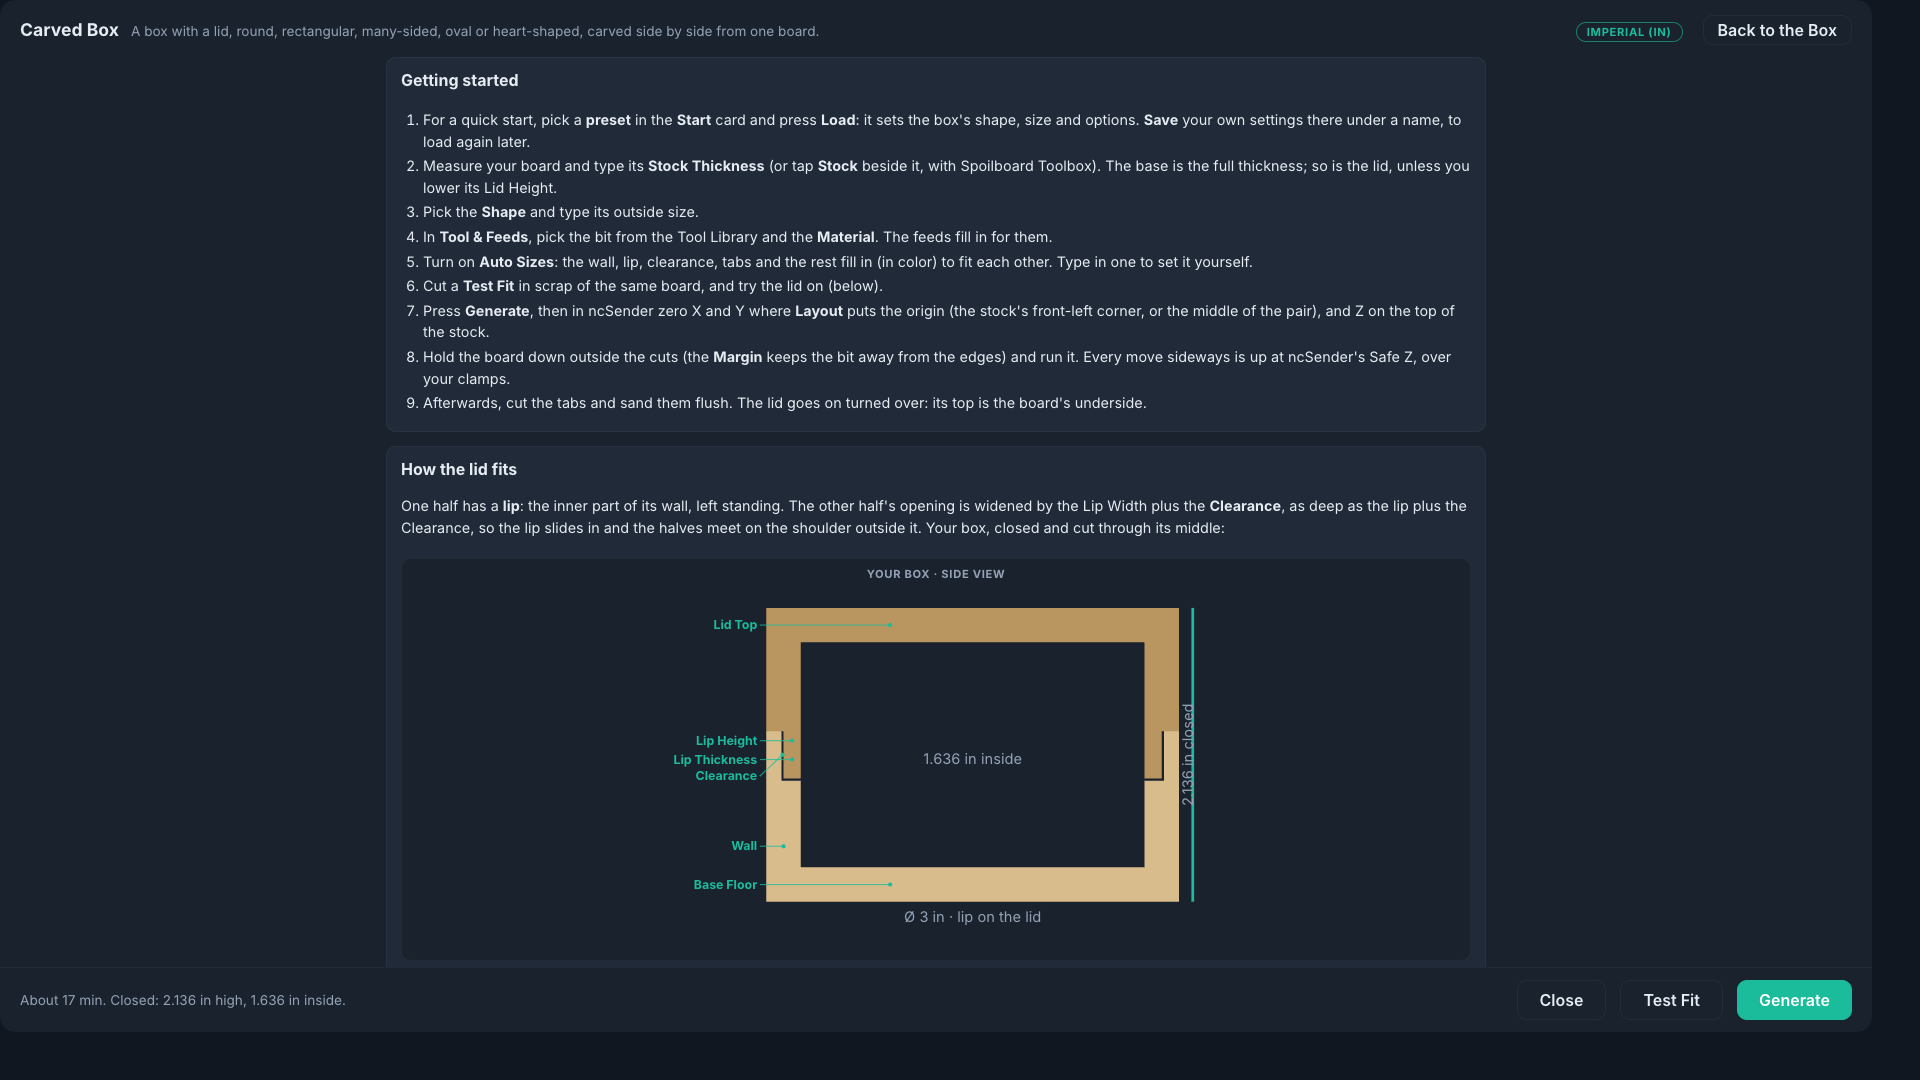
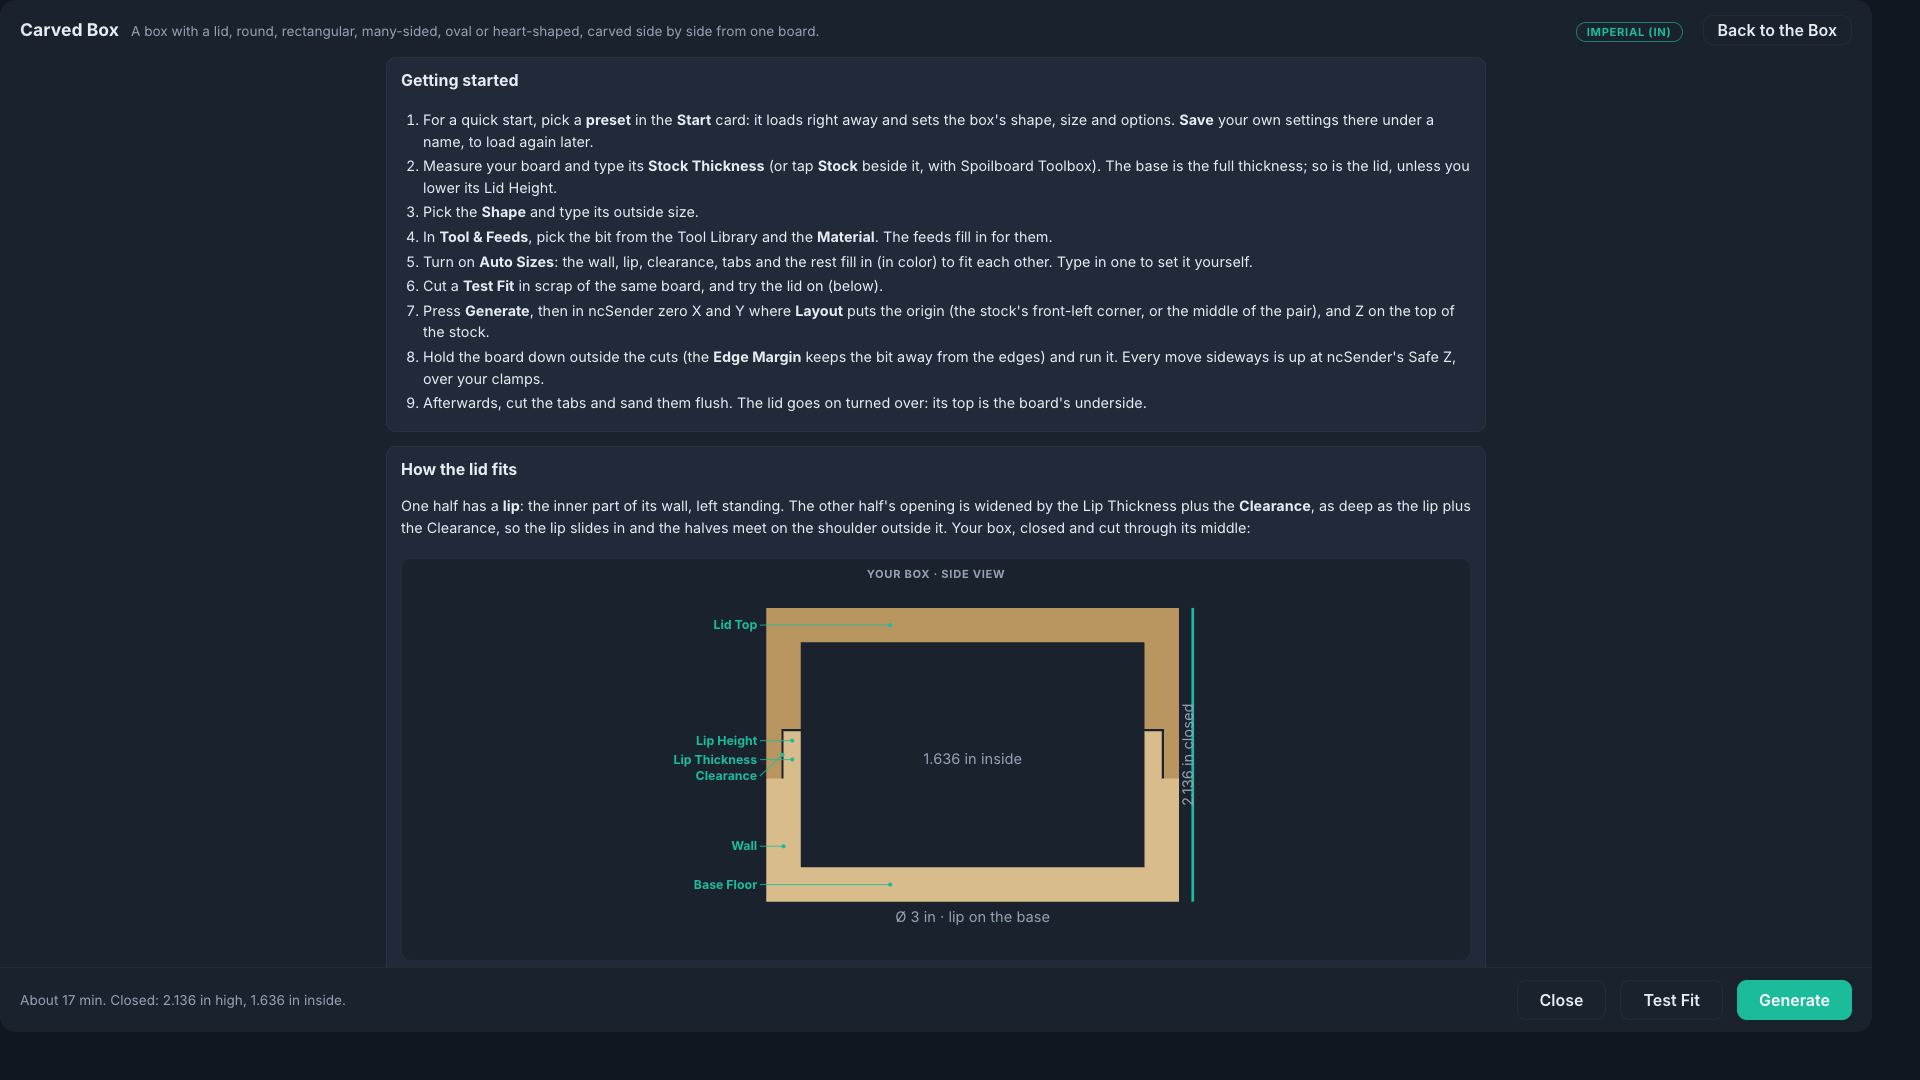
Carved Box 0.3.0
Nested sets, separate boards with grain matching, presets and saved
settings, a Magnet Bit, the finishing pass from the material, and an
easier layout. README screenshots retaken.

Claude-Session: https://claude.ai/code/session_01Hf6iZV4QfttXF3t1Lk5qyD

diff --git a/config.html b/config.html
@@ -3057,8 +3057,8 @@ if (typeof module !== 'undefined' && module.exports) {
     if (state.feedsAuto && v.charAt(0) === 'p') fillFeeds();
     update(true);
     // Back to the list's first line, so the same one can be picked again.
-    startSaid = v.charAt(0) === 'p' ? 'Loaded \u201c' + PRESETS[i].name + '\u201d: the box\u2019s shape, size and options, with Auto Sizes on; your stock, bit and feeds stay.'
-      : 'Loaded \u201c' + state.saved[i].name + '\u201d. Save with the same name to replace it.';
+    startSaid = v.charAt(0) === 'p' ? 'Loaded the preset ' + PRESETS[i].name + ': the box\u2019s shape, size and options, with Auto Sizes on; your stock, bit and feeds stay.'
+      : 'Loaded your settings ' + state.saved[i].name + '. Save with the same name to replace them.';
     $('cb-preset').value = '';
     startButtons();
   }

diff --git a/CHANGELOG.md b/CHANGELOG.md
@@ -1,21 +1,17 @@
 # Changelog
 
-## Unreleased
-- Easier to follow: Fit right after Box; the Box card in Outside size, then Board and walls; clearer names (Wall Thickness, Base Floor, Lid Top, Lip Thickness, Clearance Each Side, Gap Between, Edge Margin, Inside Rim, Tabs per Half, Magnets per Half...); shape icons on the shape buttons.
-- Labels on the previews: tap one to go to its field. A problem under the settings goes to its field when tapped. A tap in a field picks its text, to type over.
-- Each shape gets a usable size (round inches on an inch machine) when its saved one is too small or doesn't make the shape (a heart could show 0.003").
-- A nested set without Auto Sizes makes each box's floor, top and lip lower with it.
-- Picking a preset or your saved settings in Start loads them right away (no Load button); Escape or a tap outside the list leaves things as they are.
-- Magnet holes start at 5 mm across (were 1/4"), for common 5 mm magnets; the keepsake preset uses 5 mm.
-- Magnet Bit: with a tool changer, the magnet holes can be cut with a smaller end mill from the Tool Library, after a tool change once the outlines are cut, with starting feeds for its size.
-- Magnet holes narrower than the bit say to use a smaller bit, and Auto Sizes no longer makes the wall far too thick trying to fix them.
-- Auto Sizes with magnets: the lip down to 1/4" thick rather than the wall twice what the magnets need (a 6" x 4" box with 7 mm magnets: a 5/8" wall, was 0.72").
-- Finishing Pass: its allowance and direction come from the Material (conventional in wood, climb in plastics and aluminum); the card is just the switch.
-- Start: presets to begin from (ring, trinket, keepsake with magnets, hexagon, oval, heart, nested set), and your own settings saved under a name to load again.
-- Three columns on a wide screen (the previews, the cards used most, the rest), two on a tall one; the cards ordered from most used to least.
+## 0.3.0: Nested sets, grain matching, presets, Magnet Bit
+- Nested Set: 2 to 5 boxes, each fitting inside the one before, all in one program on one board, or one at a time from boards as thick as each needs.
 - Cut the base or the lid on its own board (Layout → Cut), the lid's from a thinner Lid Board if you like.
 - Grain Match: the base and the lid from the two leaves of a resawn board, the lid cut where it lands on the base, so the grain runs on across the seam.
-- Nested Set: 2 to 5 boxes, each fitting inside the one before, all in one program on one board, or one at a time from boards as thick as each needs.
+- Start: presets to begin from (ring, trinket, keepsake with magnets, hexagon, oval, heart, nested set), and your own settings saved under a name. Picking one loads it right away; Delete asks for a second tap.
+- Magnet Bit: with a tool changer, the magnet holes can be cut with a smaller end mill from the Tool Library, after a tool change once the outlines are cut, with starting feeds for its size.
+- Magnet holes start at 5 mm across (were 1/4"), for common 5 mm magnets.
+- Auto Sizes with magnets: the lip down to 1/4" thick rather than the wall twice what the magnets need (a 6" x 4" box with 7 mm magnets: a 5/8" wall, was 0.72"). It no longer thickens the wall for what a wall can't fix (a hole narrower than the bit, too deep, a drill).
+- Finishing Pass: its allowance and direction come from the Material (conventional in wood, climb in plastics and aluminum); the card is just the switch.
+- Easier to follow: three columns on a wide screen, two on a tall one, the cards ordered from most used to least; Fit right after Box; clearer names (Wall Thickness, Base Floor, Lid Top, Lip Thickness, Clearance Each Side, Gap Between, Edge Margin, Inside Rim...); shape icons.
+- Labels on the previews: tap one to go to its field. A problem under the settings goes to its field when tapped. A tap in a field picks its text, to type over.
+- Each shape gets a usable size (round inches on an inch machine) when its saved one is too small or doesn't make the shape (a heart could show 0.003").
 - A base lower than the stock is faced down first, as a lower lid is.
 
 ## 0.2.1: Help, Stock button, taller lips
